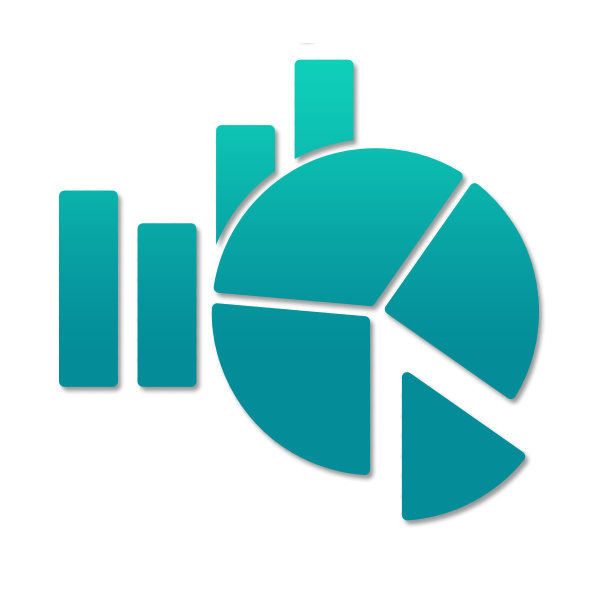
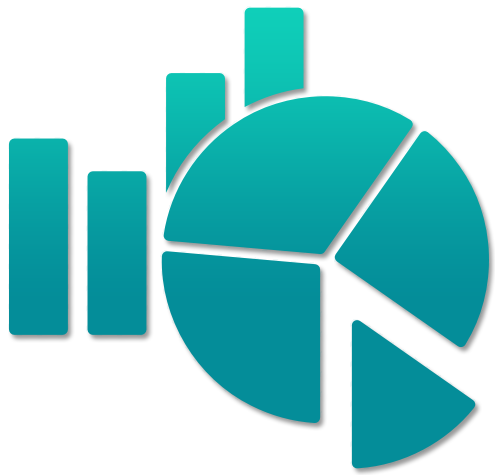
Update

diff --git a/stats.html b/stats.html
@@ -352,12 +352,8 @@ body {
             <tr>
               <td><table cellspacing="0" cellpadding="0" border="0" height="100" width="100%">
                   <tr>
-                    <td bgcolor="#2E2E2E" style="padding: 0px 0px 0px 0px; text-align: center; font-family: sans-serif; font-size: 15px; mso-height-rule: exactly; line-height: 30px; color: #e2e5e5;"><p style="font-style: normal; font-weight: normal; text-shadow: -1px 1px 1px #111111;">
-                      <img src="images/stats1.png" width="450" alt="" style="border: 0;width: 100%;max-width: 400px;height: auto;" class="center-on-narrow">
-                      <br>
-<br>
-                       
-                         
+                    <td bgcolor="#2E2E2E" style="padding: 0px 0px 0px 0px; text-align: center; font-family: sans-serif; font-size: 15px; mso-height-rule: exactly; line-height: 30px; color: #e2e5e5;"><p style="font-style: normal; font-weight: normal; text-shadow: -1px 1px 1px #111111; padding: 0px 0px 0px 0px;">
+                      <img src="images/stats1.png" width="350" alt="" style="border: 0;width: 100%;max-width: 350px;height: auto; padding: 0px 0px 0px 0px;" class="center-on-narrow">
                   </tr>
                 </table>
                 
